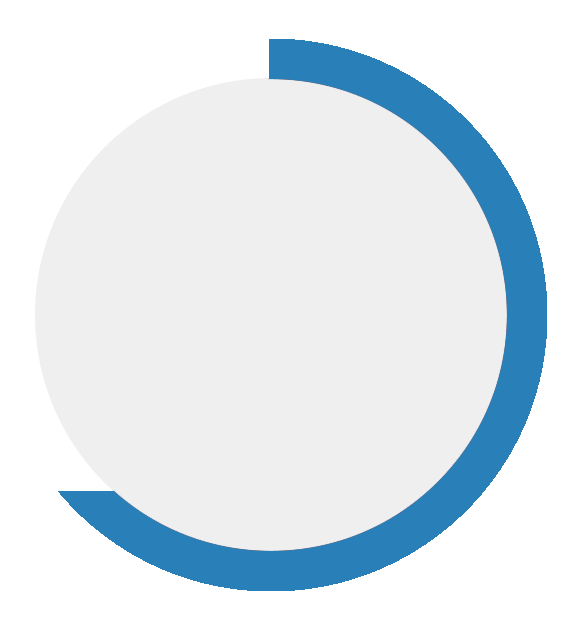
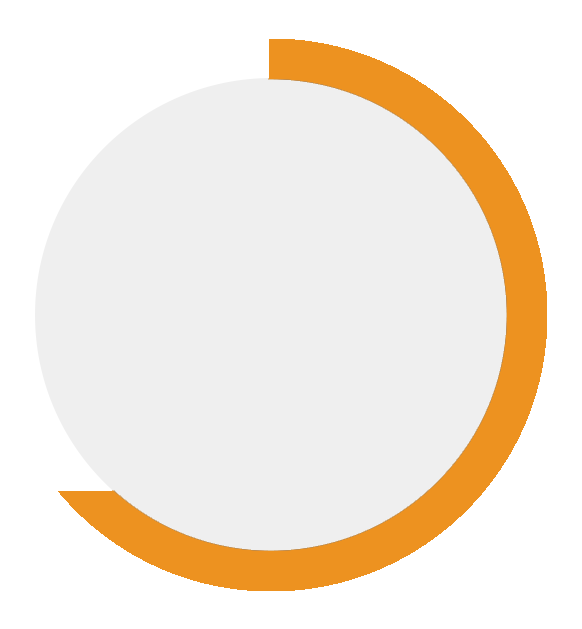
color update

Changed region(s): [[0.0928, 0.0604, 0.9588, 0.9666]]

diff --git a/css/app.css b/css/app.css
@@ -105,13 +105,13 @@ h3 {
   margin-top: 0;
   padding-top: 0;
   padding-bottom: 0;
-  background-color: #2980b9;
+  background-color: #ed9220;
   -webkit-transition: all 0.3s;
   -o-transition: all 0.3s;
   transition: all 0.3s;
 }
 .first-callout-section:hover {
-  background-color: #20638f;
+  background-color: #ca7710;
 }
 .first-callout-section a {
   padding: 20px 0;
@@ -170,13 +170,13 @@ h3 {
 #contact .signup-carousel input {
   border: none;
   box-shadow: none;
-  border-bottom: 2px solid #2e8ece;
+  border-bottom: 2px solid #ef9e38;
   background-color: transparent;
   margin-bottom: 30px;
   position: relative;
 }
 #contact .signup-carousel input:focus {
-  border-bottom: 2px solid #2980b9;
+  border-bottom: 2px solid #ed9220;
 }
 #contact .signup-carousel input:focus::-webkit-input-placeholder {
   color: transparent;
@@ -199,7 +199,7 @@ h3 {
   display: inline-block;
 }
 #contact .signup-carousel .button {
-  background-color: #2980b9;
+  background-color: #ed9220;
   text-transform: uppercase;
   font-weight: bold;
   box-shadow: 0 5px 15px 0 rgba(0, 0, 0, 0.15);
@@ -257,7 +257,7 @@ h3 {
   align-items: center;
 }
 .our-features-container i {
-  color: #2980b9;
+  color: #ed9220;
   font-size: 34px;
   vertical-align: middle;
 }
@@ -290,7 +290,7 @@ h3 {
   height: 100%;
   top: 0;
   bottom: 0;
-  border-left: 100vw solid #164666;
+  border-left: 100vw solid #9b5b0c;
   border-top: 11vh solid transparent;
   -webkit-transition: all 0.3s;
   -o-transition: all 0.3s;
@@ -303,17 +303,17 @@ h3 {
   bottom: 0;
   top: 0;
   left: 0;
-  border-right: 100vw solid #2980b9;
+  border-right: 100vw solid #ed9220;
   border-top: 13vh solid transparent;
   -webkit-transition: all 0.3s;
   -o-transition: all 0.3s;
   transition: all 0.3s;
 }
 .callout-section:hover:before {
-  border-left: 100vw solid #2980b9;
+  border-left: 100vw solid #ed9220;
 }
 .callout-section:hover:after {
-  border-right: 100vw solid #20638f;
+  border-right: 100vw solid #ca7710;
 }
 .callout-section:hover .callout-description {
   -webkit-transform: scale(1.05);
@@ -353,15 +353,15 @@ h3 {
 #about .button {
   border-radius: 3px;
   background-color: transparent;
-  border: 2px solid #2980b9;
-  color: #2980b9;
+  border: 2px solid #ed9220;
+  color: #ed9220;
   font-weight: bold;
   font-size: 16px;
   box-shadow: 0 5px 15px 0 rgba(0, 0, 0, 0.15);
 }
 #about .button:hover {
-  border: 2px solid #2980b9;
-  background-color: #2980b9;
+  border: 2px solid #ed9220;
+  background-color: #ed9220;
   color: white;
   -webkit-transform: scale(1.05);
   -ms-transform: scale(1.05);
@@ -387,7 +387,7 @@ footer a {
   color: white;
 }
 footer a:hover {
-  color: #2980b9;
+  color: #ed9220;
 }
 
 /*================ Media Queries ================*/
@@ -493,7 +493,7 @@ footer a:hover {
     border-radius: 3px;
   }
   .top-bar a:hover {
-    background-color: #2980b9;
+    background-color: #ed9220;
     text-shadow: none;
   }
 
@@ -581,7 +581,7 @@ footer a:hover {
 /*================ Featured Clients ================*/
 @media (min-width: 640px) {
   #featured-clients {
-    background-color: rgba(33, 43, 53, 0.2);
+    background-color: white;
     padding-top: 40px;
     padding-bottom: 40px;
   }

diff --git a/css/app.scss b/css/app.scss
@@ -1,5 +1,5 @@
 /*================ Overall Theme ================*/
-$colorPrimary: #2980b9;
+$colorPrimary: #ed9220;
 $colorError: rgba(188, 27, 6, 1);
 $textColor: #212b35;
 
@@ -702,7 +702,7 @@ footer {
 /*================ Featured Clients ================*/
 @media (min-width: 640px) {
     #featured-clients {
-        background-color: rgba(33, 43, 53, 0.2);
+        background-color: white;
         padding-top: 40px;
         padding-bottom: 40px;
 

diff --git a/index.php b/index.php
@@ -100,7 +100,7 @@
                 <div class="video-text-overlay">
                     <img class="logo" src="/img/logo.png" alt="Diesel Jack Media" />
                     <h1>Diesel Jack Media</h1>
-                    <!-- <h2>Video Content Distribution</h2> -->
+                    <h2>Marketing with a Bite</h2>
                 </div>
             </div>
         </section>
@@ -143,7 +143,7 @@
                                 <form id="company-form">
                                     <h4>Tell Us More</h4>
                                     <p>
-                                        If you have an existing business or startup in need of advertising services, please enter the additional information below and one of our representatives will be in touch!
+                                        If you have an existing business or startup in need of marketing services, please enter the additional information below and one of our representatives will be in touch!
                                     </p>
                                     <input id="email_hidden" name="email_hidden" type="hidden" />
                                     <label class="input-label" for="company_name">Company Name <span class="required">Required</span> </label>
@@ -195,7 +195,7 @@
                 <div class="small-12 large-4 cell text-center wow slideInUp">
                     <div class="position-relative">
                         <img src="/img/circle1.png" alt="Diesel Jack Media Page Views">
-                        <p class="circle"><span class="clout break">68,121,850</span> Years Cumulative Marketing Experience</p>
+                        <p class="circle"><span class="break" style="font-size: 30px; font-weight: bold;">68+</span> Years Cumulative Marketing Experience</p>
                     </div>
                 </div>
                 <div class="small-12 large-4 cell text-center wow slideInUp">
